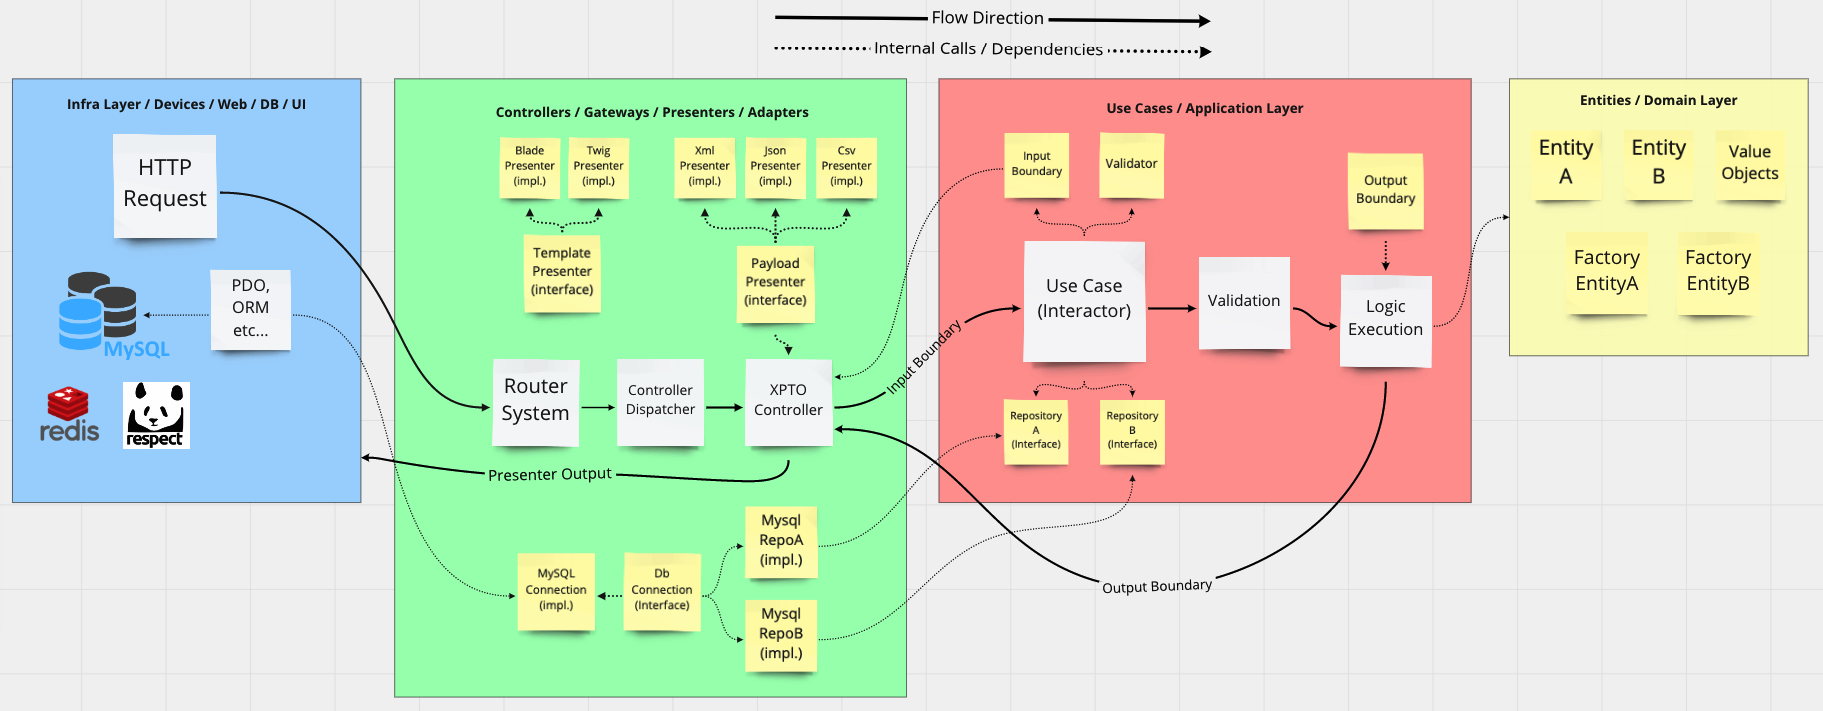
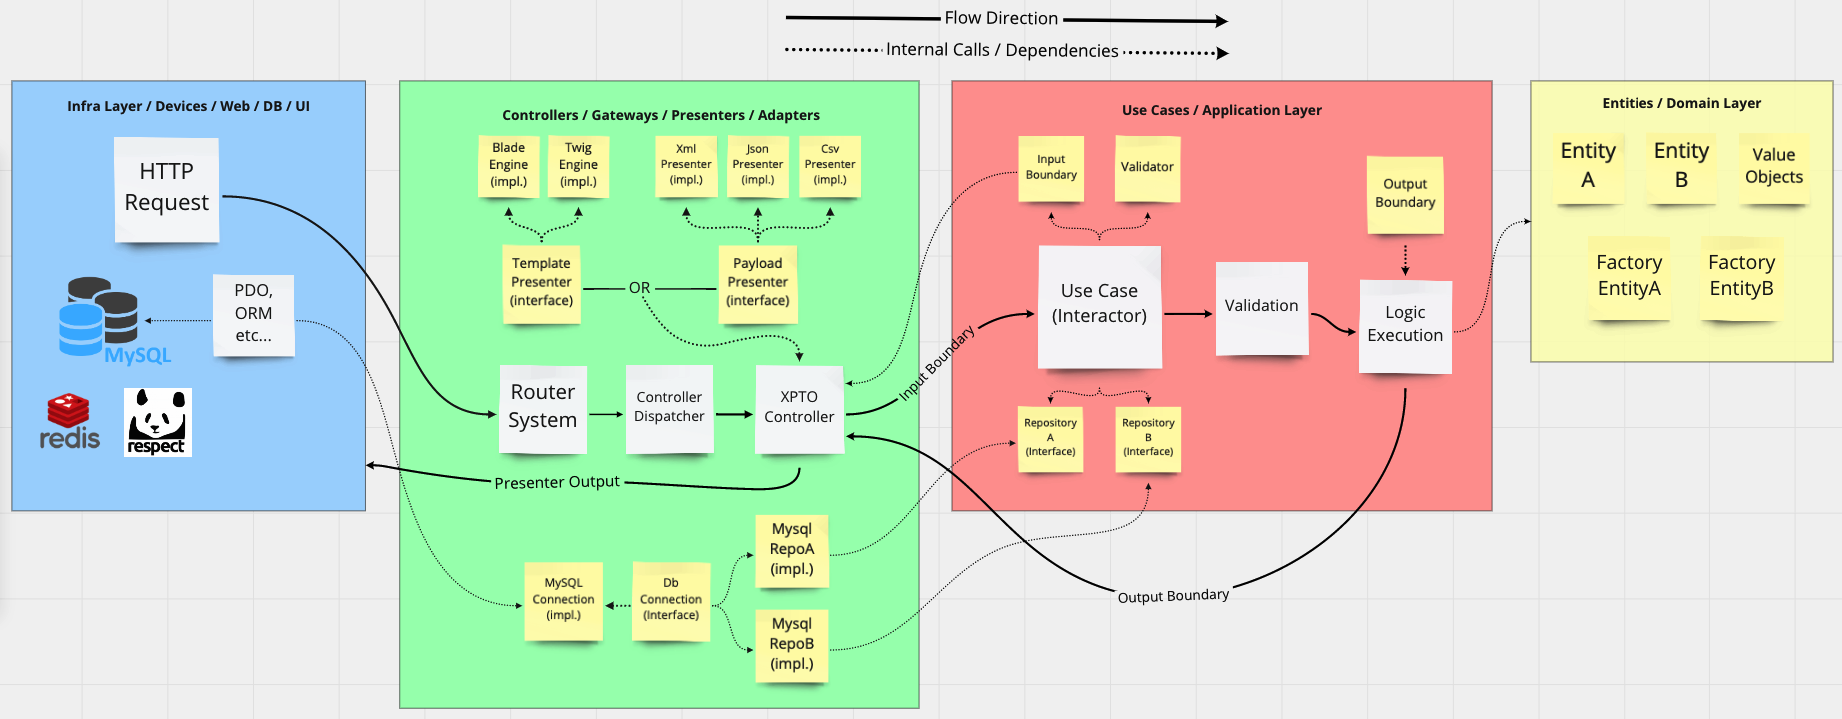
Presenter improvements and clean arch graphic update

diff --git a/config/di.php b/config/di.php
@@ -22,9 +22,13 @@ use App\Shared\Infra\Adapters\GuzzleHttpClient;
 use App\Shared\Infra\Adapters\PokeAPI;
 use App\Shared\Infra\Adapters\PRedisClient;
 use App\Shared\Infra\Adapters\RespectValidation;
+use App\Shared\Infra\Adapters\TwigEngine;
+use App\Shared\Infra\Presentation\Contracts\TemplatePresenter;
 use DI\Container;
 use DI\ContainerBuilder;
 use Predis\Client;
+use Twig\Environment;
+use Twig\Loader\FilesystemLoader;
 
 $containerBuilder = new ContainerBuilder();
 
@@ -35,6 +39,7 @@ $containerBuilder->addDefinitions([
     CacheSystem::class => DI\get('cache'),
     PokemonAPI::class => DI\get('pokemonApi'),
     ValidatorTool::class => DI\autowire(RespectValidation::class),
+    TemplatePresenter::class => DI\get('templatePresentation'),
 
     // Repositories
     PlayerRepositoryRepositoryInterface::class => DI\autowire(PlayerRepository::class),
@@ -77,4 +82,16 @@ $container->set('pokemonApi', function(Container $container) {
     $pokeApiConfig = $container->get('config')['externalApi']['pokeapi'];
 
     return new PokeAPI($container->get(HttpClient::class), $pokeApiConfig);
+});
+
+$container->set('templatePresentation', function(Container $container) {
+    $config = $container->get('config')['templatePresentation'];
+
+    $loader = new FilesystemLoader($config['viewsPath']);
+
+    $twig = new Environment($loader, [
+        'cache' => $config['enableCache'] === true ? $config['cachePath'] : false
+    ]);
+
+    return new TwigEngine($twig, $config);
 });

diff --git a/src/Shared/Infra/Presentation/PresenterFactory.php b/src/Shared/Infra/Presentation/PresenterFactory.php
@@ -5,11 +5,10 @@ declare(strict_types=1);
 namespace App\Shared\Infra\Presentation;
 
 use App\Shared\Exceptions\RuntimeException;
+use App\Shared\Infra\Presentation\Contracts\PayloadPresenter;
 use App\Shared\Infra\Presentation\Payload\CsvPresenter;
 use App\Shared\Infra\Presentation\Payload\JsonPresenter;
 use App\Shared\Infra\Presentation\Payload\XmlPresenter;
-use App\Shared\Infra\Presentation\Template\BladePresenter;
-use App\Shared\Infra\Presentation\Template\TwigPresenter;
 use Psr\Http\Message\ServerRequestInterface as Request;
 
 final class PresenterFactory
@@ -38,26 +37,6 @@ final class PresenterFactory
 
             default:
                 throw new RuntimeException(['accept' => $accept], 'Invalid payload presenter to this request.');
-        }
-    }
-
-    public static function createTemplate(Request $request): TemplatePresenter
-    {
-        $accept = explode(',', $request->getHeaderLine('Accept'))[0];
-
-        switch ($accept) {
-            case '':
-            case '*/*':
-            case 'text/html':
-            case 'text/html+twig':
-            case 'application/xhtml+xml':
-                return new TwigPresenter();
-
-            case 'text/html+blade':
-                return new BladePresenter();
-
-            default:
-                throw new RuntimeException(['accept' => $accept], 'Invalid template presenter to this request.');
         }
     }
 }

diff --git a/src/Shared/Infra/Http/TemplateAction.php b/src/Shared/Infra/Http/TemplateAction.php
@@ -4,9 +4,7 @@ declare(strict_types=1);
 
 namespace App\Shared\Infra\Http;
 
-use App\Shared\Infra\Presentation\Presenter;
-use App\Shared\Infra\Presentation\PresenterFactory;
-use App\Shared\Infra\Presentation\TemplatePresenter;
+use App\Shared\Infra\Presentation\Contracts\TemplatePresenter;
 use Psr\Http\Message\ServerRequestInterface as Request;
 use Psr\Http\Message\ResponseInterface as Response;
 use Throwable;
@@ -21,6 +19,11 @@ abstract class TemplateAction
 
     abstract protected function handle(): string;
 
+    public function __construct(TemplatePresenter $presenter)
+    {
+        $this->presenter = $presenter;
+    }
+
     public function __invoke(Request $request, Response $response, array $args): Response
     {
         try {
@@ -28,7 +31,6 @@ abstract class TemplateAction
             $this->response = $response;
             $this->args = $args;
             $this->body = $this->parseBody();
-            $this->presenter = PresenterFactory::createTemplate($request);
 
             $this->response->getBody()->write($this->handle());
 

diff --git a/src/Shared/Infra/Http/PayloadAction.php b/src/Shared/Infra/Http/PayloadAction.php
@@ -6,7 +6,7 @@ namespace App\Shared\Infra\Http;
 
 use App\Shared\Contracts\AppExceptionBase;
 use App\Shared\Exceptions\AppValidationException;
-use App\Shared\Infra\Presentation\Presenter;
+use App\Shared\Infra\Presentation\Contracts\PayloadPresenter;
 use App\Shared\Infra\Presentation\PresenterFactory;
 use PDOException;
 use Psr\Http\Message\ServerRequestInterface as Request;
@@ -18,7 +18,7 @@ abstract class PayloadAction
     protected Request $request;
     protected Response $response;
     protected string $responseContentType;
-    protected Presenter $presenter;
+    protected PayloadPresenter $presenter;
     protected array $args;
     protected array $body;
     protected array $meta = [];

diff --git a/src/Shared/Infra/Adapters/TwigEngine.php b/src/Shared/Infra/Adapters/TwigEngine.php
@@ -1,0 +1,25 @@
+<?php
+
+declare(strict_types=1);
+
+namespace App\Shared\Infra\Adapters;
+
+use App\Shared\Infra\Presentation\Contracts\TemplatePresenter;
+use Twig\Environment as Twig;
+
+final class TwigEngine implements TemplatePresenter
+{
+    private Twig $twig;
+    private array $options;
+
+    public function __construct(Twig $twig, array $options = [])
+    {
+        $this->twig = $twig;
+        $this->options = $options;
+    }
+
+    public function render(string $templateName, array $data = []): string
+    {
+        return $this->twig->render($templateName, $data);
+    }
+}

diff --git a/config/config.php b/config/config.php
@@ -6,6 +6,11 @@ return [
             'baseUrl' => 'https://pokeapi.co/api/v2'
         ]
     ],
+    'templatePresentation' => [
+        'viewsPath' => __DIR__ . '/../views',
+        'cachePath' => __DIR__ . '/../runtime/cache',
+        'enableCache' => $_ENV['APP_ENV'] === 'production'
+    ],
     'database' => [
         'host' => $_ENV['DB_HOST'],
         'port' => $_ENV['DB_PORT'],

diff --git a/src/Player/Infra/Http/ProfilePageAction.php b/src/Player/Infra/Http/ProfilePageAction.php
@@ -10,7 +10,7 @@ class ProfilePageAction extends TemplateAction
 {
     protected function handle(): string
     {
-        return $this->presenter->render('profile', [
+        return $this->presenter->render('profile.html.twig', [
             'name' => 'Kildim',
             'lastName' => 'Sena'
         ]);

diff --git a/src/Shared/Infra/Presentation/Payload/JsonPresenter.php b/src/Shared/Infra/Presentation/Payload/JsonPresenter.php
@@ -4,7 +4,7 @@ declare(strict_types=1);
 
 namespace App\Shared\Infra\Presentation\Payload;
 
-use App\Shared\Infra\Presentation\PayloadPresenter;
+use App\Shared\Infra\Presentation\Contracts\PayloadPresenter;
 
 final class JsonPresenter implements PayloadPresenter
 {

diff --git a/src/Shared/Infra/Presentation/Payload/CsvPresenter.php b/src/Shared/Infra/Presentation/Payload/CsvPresenter.php
@@ -4,7 +4,7 @@ declare(strict_types=1);
 
 namespace App\Shared\Infra\Presentation\Payload;
 
-use App\Shared\Infra\Presentation\PayloadPresenter;
+use App\Shared\Infra\Presentation\Contracts\PayloadPresenter;
 
 final class CsvPresenter implements PayloadPresenter
 {

diff --git a/src/Shared/Infra/Presentation/Payload/XmlPresenter.php b/src/Shared/Infra/Presentation/Payload/XmlPresenter.php
@@ -4,7 +4,7 @@ declare(strict_types=1);
 
 namespace App\Shared\Infra\Presentation\Payload;
 
-use App\Shared\Infra\Presentation\PayloadPresenter;
+use App\Shared\Infra\Presentation\Contracts\PayloadPresenter;
 
 final class XmlPresenter implements PayloadPresenter
 {

diff --git a/src/Shared/Infra/Presentation/Contracts/TemplatePresenter.php b/src/Shared/Infra/Presentation/Contracts/TemplatePresenter.php
@@ -2,7 +2,7 @@
 
 declare(strict_types=1);
 
-namespace App\Shared\Infra\Presentation;
+namespace App\Shared\Infra\Presentation\Contracts;
 
 interface TemplatePresenter
 {

diff --git a/src/Shared/Infra/Presentation/Contracts/PayloadPresenter.php b/src/Shared/Infra/Presentation/Contracts/PayloadPresenter.php
@@ -2,7 +2,7 @@
 
 declare(strict_types=1);
 
-namespace App\Shared\Infra\Presentation;
+namespace App\Shared\Infra\Presentation\Contracts;
 
 interface PayloadPresenter
 {
